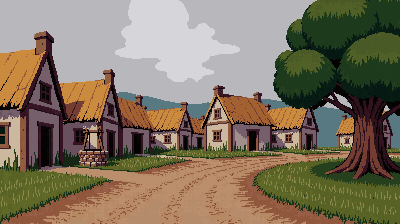
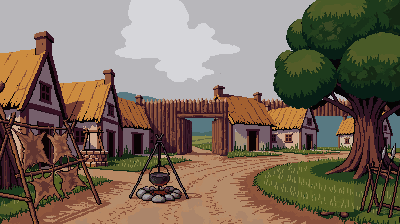
One square: the town scene, Oswald under the oak, the spots on their places
The new painting, drawn from the old one as the style reference and
with the painted-in Oswald replaced by the original ground, is the one
scene for both the hub and the spar. Oswald stands idle under the oak
with his arms crossed, mirrored to face into the square. The four
spots sit on the tanner's frame, the fire (labeled Cook), Oswald and
the gate (labeled Hunt). The player figure no longer stands in town.

Approved by the owner on sight.

diff --git a/src/view/app.ts b/src/view/app.ts
@@ -147,10 +147,10 @@ interface Spot {
 }
 
 const SPOTS: readonly Spot[] = [
-  { id: 'tanner', label: 'Tanner', x: 14, y: 62 },
-  { id: 'cookfire', label: 'Cookfire', x: 38, y: 74 },
-  { id: 'oswald', label: 'Oswald', x: 78, y: 66 },
-  { id: 'gate', label: 'Hunt', x: 55, y: 55 },
+  { id: 'tanner', label: 'Tanner', x: 13, y: 52 },
+  { id: 'cookfire', label: 'Cook', x: 40, y: 62 },
+  { id: 'oswald', label: 'Oswald', x: 84, y: 48 },
+  { id: 'gate', label: 'Hunt', x: 52, y: 40 },
 ];
 
 /**
@@ -426,7 +426,7 @@ export function start(mount: HTMLElement): void {
       </header>
 
       <section class="town" style="--scene: url('${sceneFor('town')}')">
-        <img class="townsfolk you" src="${heroSpriteFor(run.weaponId, run.sex)}" alt="" onerror="this.remove()" />
+        <img class="townsfolk oswald" src="${spriteFor('oswald-idle')}" alt="" onerror="this.remove()" />
         ${SPOTS.map(
           (
             spot,

diff --git a/src/style.css b/src/style.css
@@ -1258,14 +1258,20 @@ button.ghost:hover {
   image-rendering: pixelated;
 }
 
-.town .townsfolk.you {
+.town .townsfolk {
   position: absolute;
-  left: 44%;
-  bottom: 6%;
-  width: 22%;
+  width: 18%;
   height: auto;
   image-rendering: pixelated;
   pointer-events: none;
+}
+
+/* Under the oak, by his rack, facing back into the square. */
+.town .townsfolk.oswald {
+  left: 74%;
+  bottom: 18%;
+  width: 15%;
+  transform: scaleX(-1);
 }
 
 .spot {
